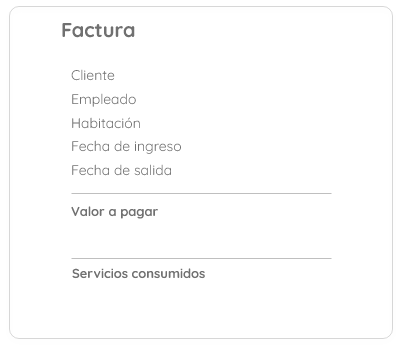
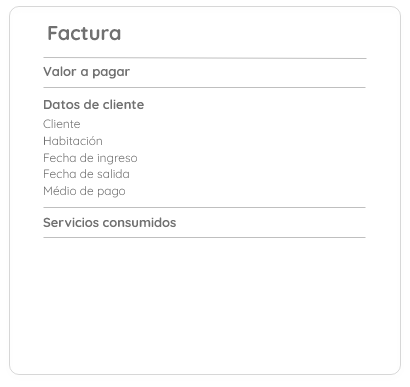
Se acomodo la interfaz de check out

diff --git a/HotelAdmin/src/Vistas/Jpanel/RegistrarSalidaGUI.java b/HotelAdmin/src/Vistas/Jpanel/RegistrarSalidaGUI.java
@@ -80,11 +80,11 @@ public class RegistrarSalidaGUI extends javax.swing.JPanel {
 
         jTbuscador = new javax.swing.JTextField();
         jLcliente = new javax.swing.JLabel();
-        jLempleado = new javax.swing.JLabel();
         jLhabitacion = new javax.swing.JLabel();
         jLfechaIngreso = new javax.swing.JLabel();
         jLfechaSalida = new javax.swing.JLabel();
         jLprecio = new javax.swing.JLabel();
+        jCBmedioPago = new javax.swing.JComboBox<>();
         jButton1 = new javax.swing.JButton();
         jScrollPane2 = new javax.swing.JScrollPane();
         jListServicios = new javax.swing.JList<>();
@@ -101,35 +101,35 @@ public class RegistrarSalidaGUI extends javax.swing.JPanel {
         jTbuscador.setBorder(null);
         add(jTbuscador, new org.netbeans.lib.awtextra.AbsoluteConstraints(118, 47, -1, -1));
 
-        jLcliente.setFont(new java.awt.Font("Decker", 0, 13)); // NOI18N
+        jLcliente.setFont(new java.awt.Font("Decker", 0, 12)); // NOI18N
         jLcliente.setForeground(new java.awt.Color(112, 112, 112));
         jLcliente.setText("123456789");
-        add(jLcliente, new org.netbeans.lib.awtextra.AbsoluteConstraints(546, 153, -1, -1));
+        add(jLcliente, new org.netbeans.lib.awtextra.AbsoluteConstraints(546, 205, -1, -1));
 
-        jLempleado.setFont(new java.awt.Font("Decker", 0, 13)); // NOI18N
-        jLempleado.setForeground(new java.awt.Color(112, 112, 112));
-        jLempleado.setText("123456789");
-        add(jLempleado, new org.netbeans.lib.awtextra.AbsoluteConstraints(546, 178, -1, -1));
-
-        jLhabitacion.setFont(new java.awt.Font("Decker", 0, 13)); // NOI18N
+        jLhabitacion.setFont(new java.awt.Font("Decker", 0, 12)); // NOI18N
         jLhabitacion.setForeground(new java.awt.Color(112, 112, 112));
         jLhabitacion.setText("123456789");
-        add(jLhabitacion, new org.netbeans.lib.awtextra.AbsoluteConstraints(546, 203, -1, -1));
+        add(jLhabitacion, new org.netbeans.lib.awtextra.AbsoluteConstraints(546, 222, -1, -1));
 
-        jLfechaIngreso.setFont(new java.awt.Font("Decker", 0, 13)); // NOI18N
+        jLfechaIngreso.setFont(new java.awt.Font("Decker", 0, 12)); // NOI18N
         jLfechaIngreso.setForeground(new java.awt.Color(112, 112, 112));
         jLfechaIngreso.setText("123456789");
-        add(jLfechaIngreso, new org.netbeans.lib.awtextra.AbsoluteConstraints(546, 227, -1, -1));
+        add(jLfechaIngreso, new org.netbeans.lib.awtextra.AbsoluteConstraints(546, 238, -1, -1));
 
-        jLfechaSalida.setFont(new java.awt.Font("Decker", 0, 13)); // NOI18N
+        jLfechaSalida.setFont(new java.awt.Font("Decker", 0, 12)); // NOI18N
         jLfechaSalida.setForeground(new java.awt.Color(112, 112, 112));
         jLfechaSalida.setText("123456789");
-        add(jLfechaSalida, new org.netbeans.lib.awtextra.AbsoluteConstraints(546, 250, -1, -1));
+        add(jLfechaSalida, new org.netbeans.lib.awtextra.AbsoluteConstraints(546, 255, -1, -1));
 
         jLprecio.setFont(new java.awt.Font("Decker", 1, 20)); // NOI18N
         jLprecio.setForeground(new java.awt.Color(112, 112, 112));
         jLprecio.setText("600.000");
-        add(jLprecio, new org.netbeans.lib.awtextra.AbsoluteConstraints(369, 315, -1, -1));
+        add(jLprecio, new org.netbeans.lib.awtextra.AbsoluteConstraints(570, 148, -1, -1));
+
+        jCBmedioPago.setBackground(new java.awt.Color(241, 242, 246));
+        jCBmedioPago.setForeground(new java.awt.Color(112, 112, 112));
+        jCBmedioPago.setModel(new javax.swing.DefaultComboBoxModel<>(new String[] { "Item 1", "Item 2", "Item 3", "Item 4" }));
+        add(jCBmedioPago, new org.netbeans.lib.awtextra.AbsoluteConstraints(546, 273, 110, 18));
 
         jButton1.setIcon(new javax.swing.ImageIcon(getClass().getResource("/Imagenes/buscar-azul.png"))); // NOI18N
         jButton1.setBorder(null);
@@ -149,7 +149,7 @@ public class RegistrarSalidaGUI extends javax.swing.JPanel {
 
         jScrollPane2.setViewportView(jListServicios);
 
-        add(jScrollPane2, new org.netbeans.lib.awtextra.AbsoluteConstraints(370, 373, 260, 45));
+        add(jScrollPane2, new org.netbeans.lib.awtextra.AbsoluteConstraints(340, 335, 320, 120));
 
         jLfactura.setIcon(new javax.swing.ImageIcon(getClass().getResource("/Imagenes/Factura.png"))); // NOI18N
         add(jLfactura, new org.netbeans.lib.awtextra.AbsoluteConstraints(296, 88, -1, -1));
@@ -164,7 +164,7 @@ public class RegistrarSalidaGUI extends javax.swing.JPanel {
                 jBcancelarActionPerformed(evt);
             }
         });
-        add(jBcancelar, new org.netbeans.lib.awtextra.AbsoluteConstraints(350, 445, 130, 50));
+        add(jBcancelar, new org.netbeans.lib.awtextra.AbsoluteConstraints(350, 470, 130, 50));
 
         jBcheckOut.setIcon(new javax.swing.ImageIcon(getClass().getResource("/Imagenes/botonCheckOutSinSele.png"))); // NOI18N
         jBcheckOut.setBorder(null);
@@ -177,7 +177,7 @@ public class RegistrarSalidaGUI extends javax.swing.JPanel {
                 jBcheckOutActionPerformed(evt);
             }
         });
-        add(jBcheckOut, new org.netbeans.lib.awtextra.AbsoluteConstraints(506, 445, 140, -1));
+        add(jBcheckOut, new org.netbeans.lib.awtextra.AbsoluteConstraints(506, 470, 140, -1));
     }// </editor-fold>//GEN-END:initComponents
 
     private void jButton1ActionPerformed(java.awt.event.ActionEvent evt) {//GEN-FIRST:event_jButton1ActionPerformed
@@ -197,8 +197,8 @@ public class RegistrarSalidaGUI extends javax.swing.JPanel {
     private javax.swing.JButton jBcancelar;
     private javax.swing.JButton jBcheckOut;
     private javax.swing.JButton jButton1;
+    private javax.swing.JComboBox<String> jCBmedioPago;
     private javax.swing.JLabel jLcliente;
-    private javax.swing.JLabel jLempleado;
     private javax.swing.JLabel jLfactura;
     private javax.swing.JLabel jLfechaIngreso;
     private javax.swing.JLabel jLfechaSalida;
